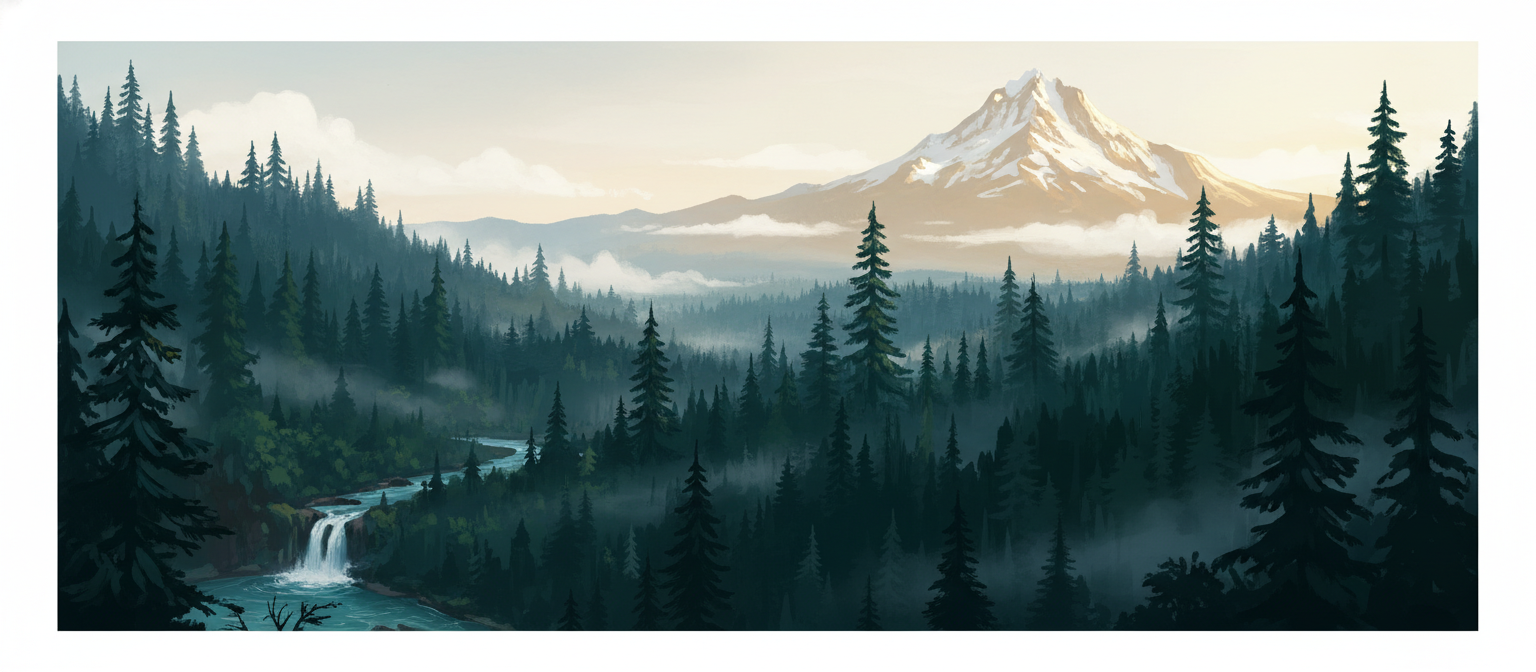
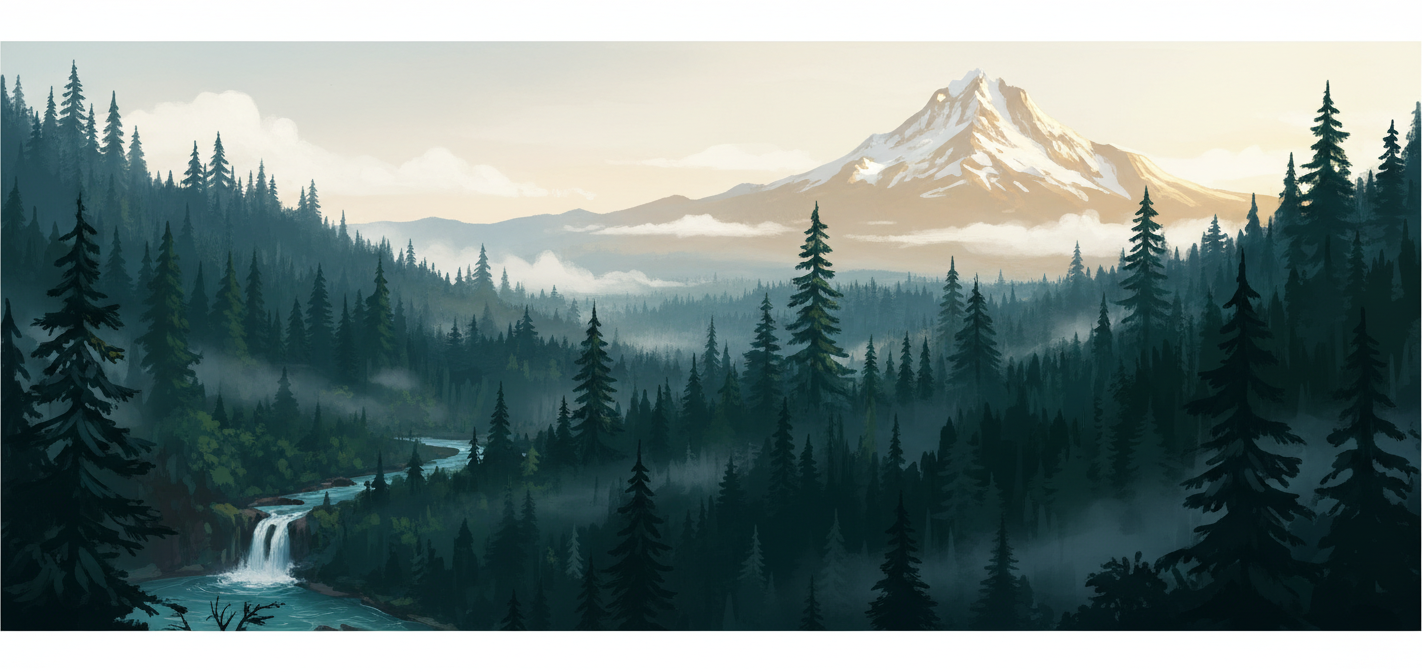
Phase 1.7.1: brand tweaks + hero crop
- Hero subtitle: 'What's worth doing around here' → 'Things to do' with
  the weekend dates moved underneath
- Sticky header right block: 'Curated for / family names' →
  'OTC Lifestyle / #OneLifeLiveIt'
- Crop hero-northwest.png to remove ~57px of AI-added white side bars
  (was 1536x672, now 1422x672) so the image fills edge-to-edge with
  object-cover

diff --git a/app/templates/index.html b/app/templates/index.html
@@ -30,7 +30,10 @@
     <div class="absolute inset-0 bg-gradient-to-t from-slate-900/70 via-slate-900/30 to-slate-900/20"></div>
     <div class="relative max-w-7xl mx-auto h-full px-4 sm:px-6 lg:px-8 flex flex-col justify-end pb-5 sm:pb-7">
       <h1 class="text-3xl sm:text-5xl lg:text-6xl font-extrabold text-white tracking-tight drop-shadow-md">Weekend</h1>
-      <p class="text-sm sm:text-base text-slate-100/90 mt-1 font-medium">What's worth doing around here</p>
+      <p class="text-sm sm:text-base text-slate-100/90 mt-1 font-medium">Things to do</p>
+      {% if weekend_dates %}
+      <p class="text-xs sm:text-sm text-slate-200/80 mt-0.5">{{ weekend_dates[0] }} &ndash; {{ weekend_dates[-1] }}</p>
+      {% endif %}
     </div>
   </section>
 
@@ -46,8 +49,8 @@
           {% endif %}
         </div>
         <div class="text-right text-xs sm:text-sm text-slate-500 leading-tight">
-          <div class="hidden sm:block">Curated for</div>
-          <div class="font-medium text-slate-700">John, Tonia, Logan, Hailey</div>
+          <div class="hidden sm:block">OTC Lifestyle</div>
+          <div class="font-medium text-slate-700">#OneLifeLiveIt</div>
         </div>
       </div>
     </div>
